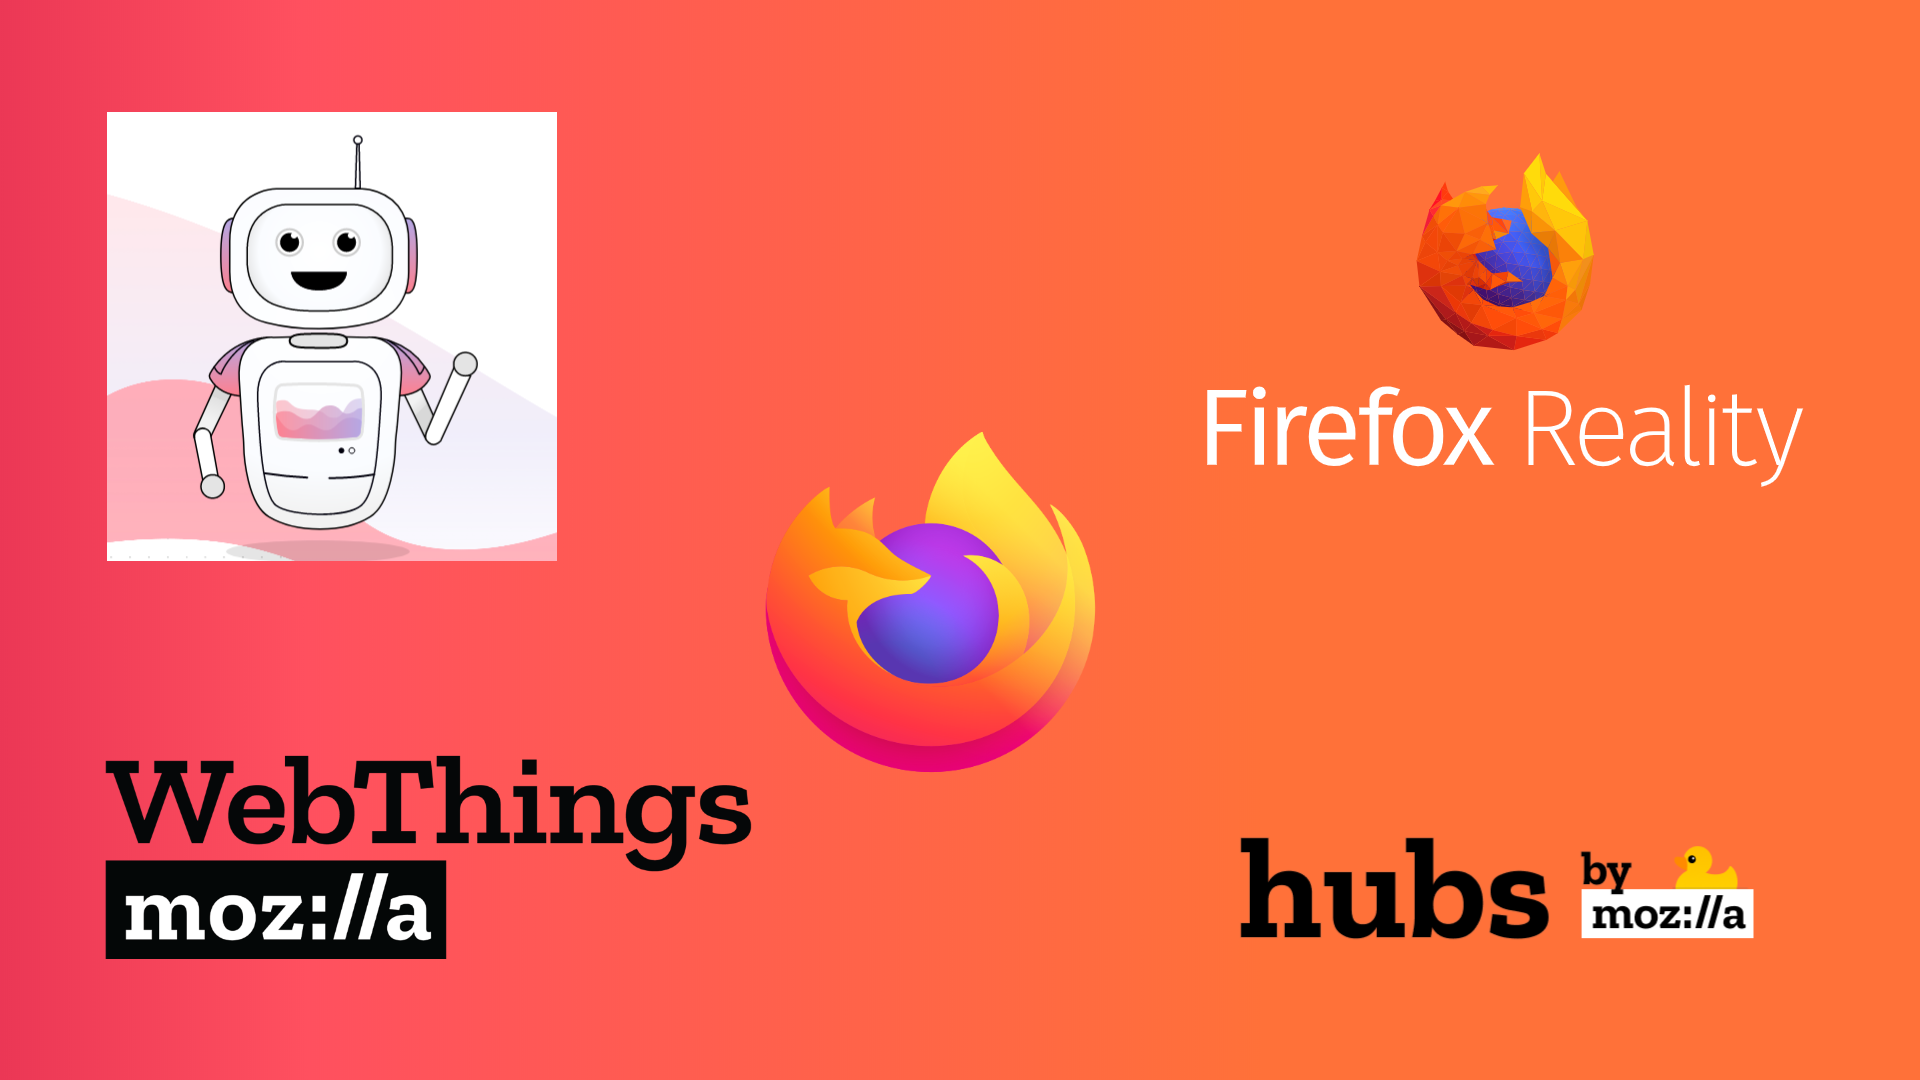
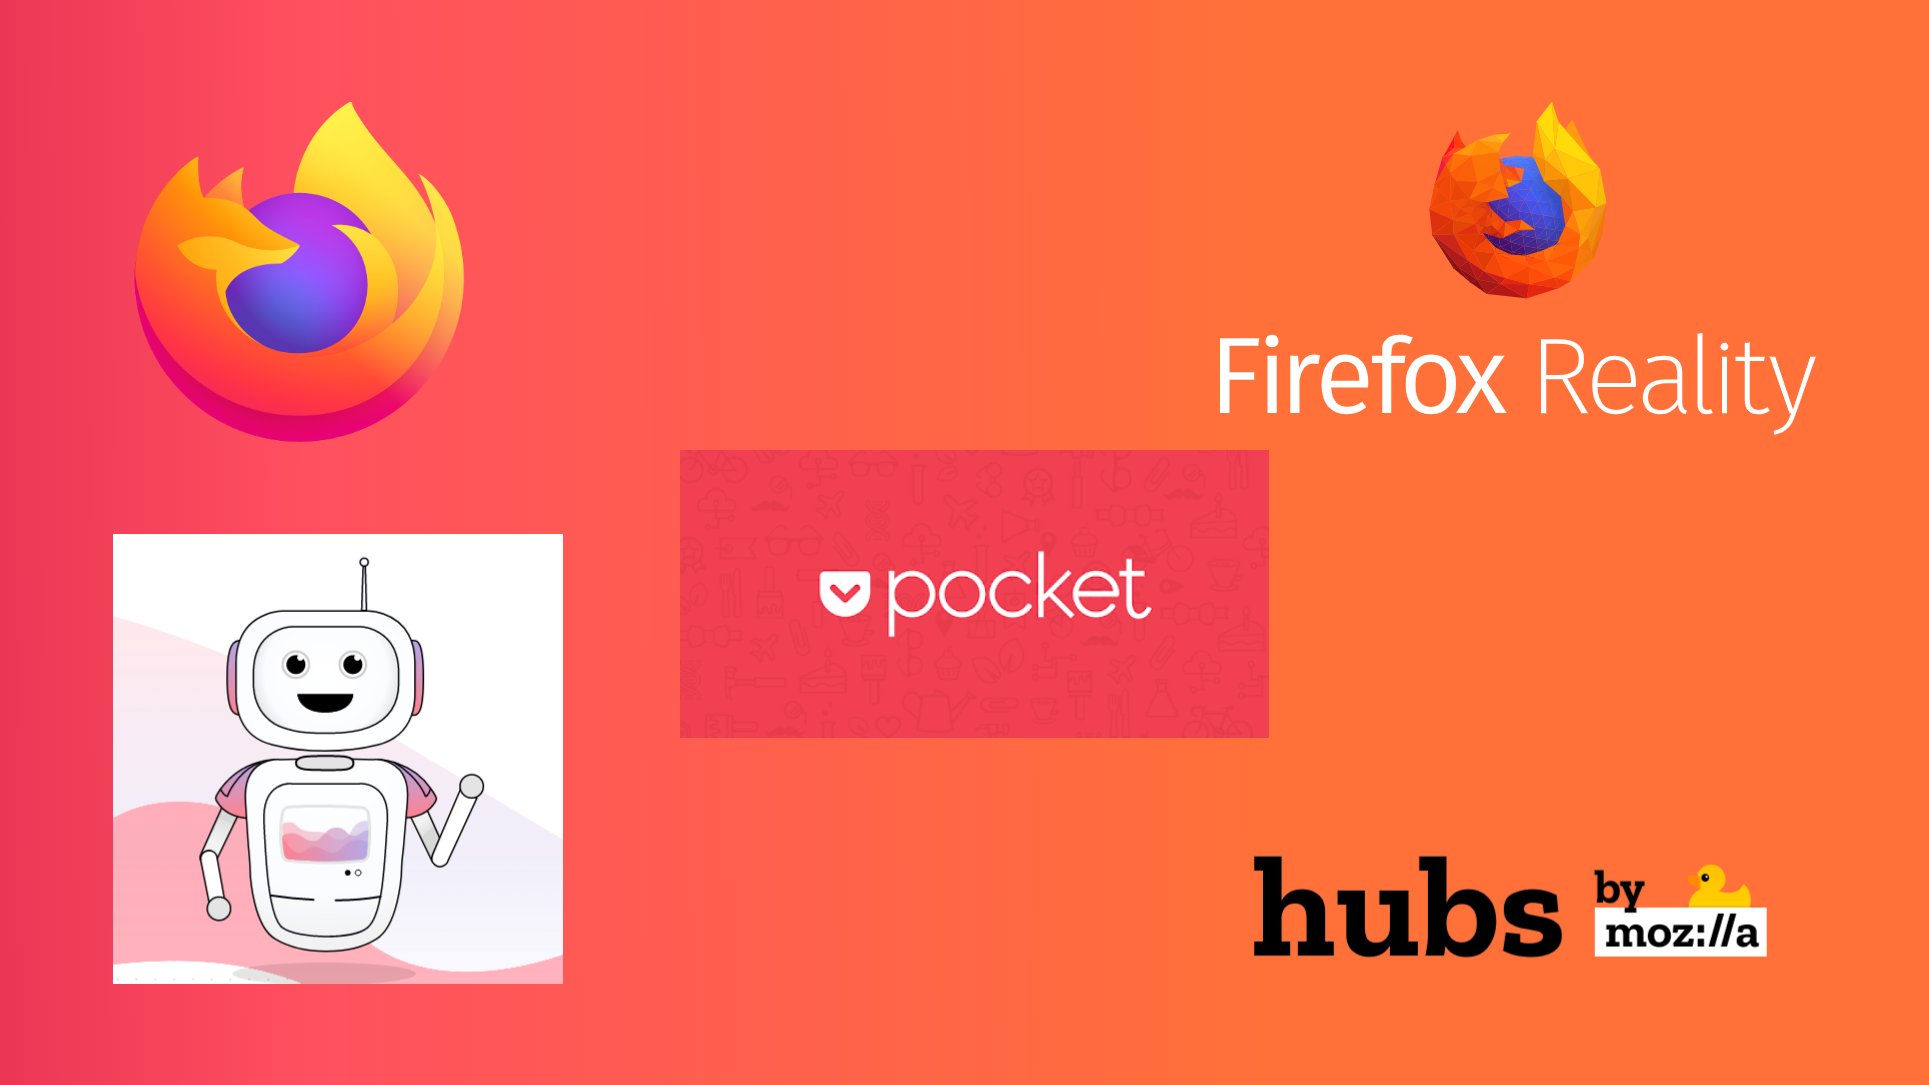
remove webthings

diff --git a/src/index.html b/src/index.html
@@ -81,10 +81,6 @@
                 <p>Con la nueva versión de Pocket podrás convertir tus artículos guardados en Podcasts</p>
             </section>
             <section>
-                <img src=<%=require("./assets/webthings_banner.png").default%> alt="mozilla-webthings">
-                <p>Mozilla WebThings es nuestra plataforma abierta para IoT que busca conectar nuestros dispositivos desde la web</p>
-            </section>
-            <section>
                 <img src=<%=require("./assets/firefox-voice-logo.jpg").default%> alt="firefox-voice">
                 <p>Firefox Voice promete ser tu asistente de voz dentro de la web, con el que podrás hacer uso de ella con tu voz</p>
             </section>
